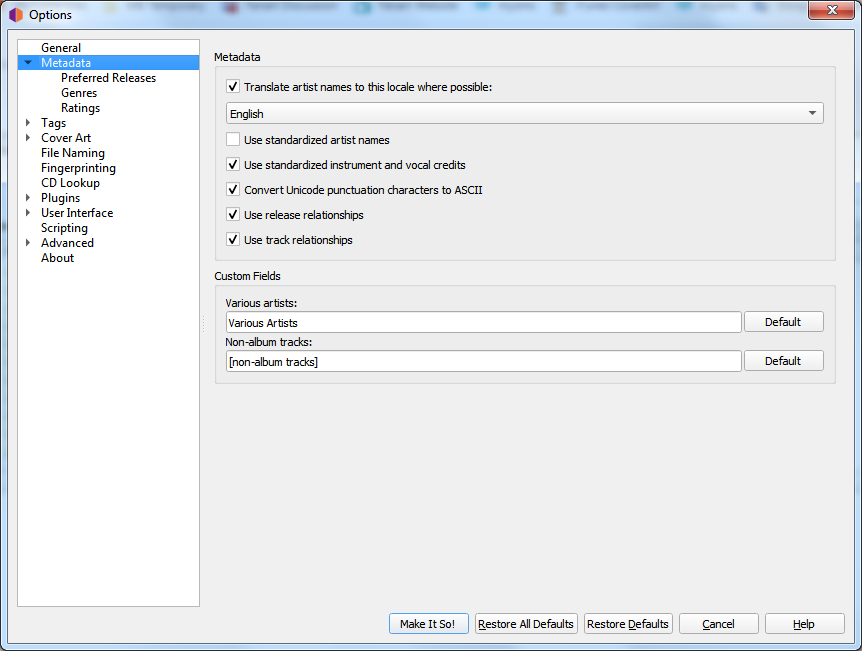
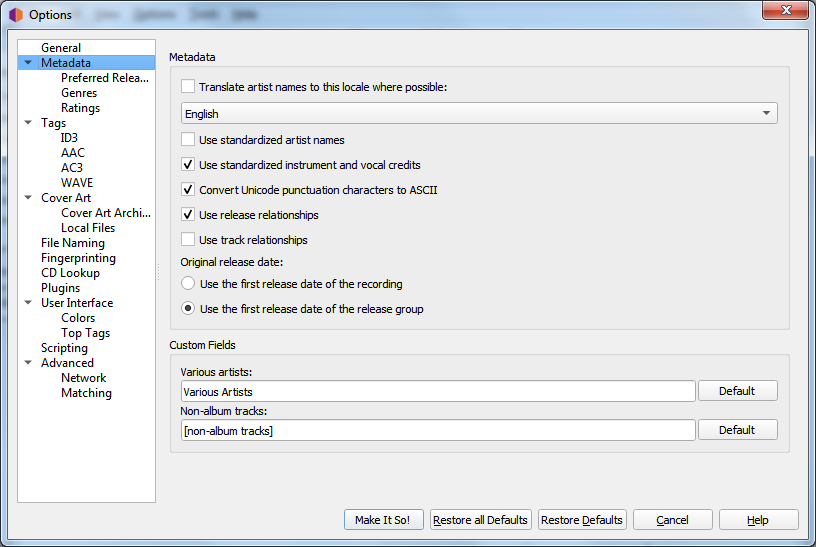
Add new configuration option and update tag descriptions

diff --git a/variables/tags_basic.rst b/variables/tags_basic.rst
@@ -216,15 +216,36 @@ several other more minor settings) by wrapping them between percent '%' symbols 
 
 **originaldate**
 
-    Release Date (YYYY-MM-DD) of the earliest release in the Release Group intended to provide, for example, the release date of the vinyl version of what you have on CD. (*Included as standard from Picard 0.15, and using the Original Release Date plugin if you are still using a non-NGS version earlier than Picard 0.15*)
+   The original release date in the format YYYY-MM-DD.  Prior to Picard version 2.6, this date was based on the earliest
+   release in the Release Group providing, for example, the release date of the vinyl version of what you have on CD. As of
+   Picard version 2.6, the source of the information for this tag can be selected in the :doc:`../config/options_metadata`
+   section of the Options settings.  The selection options are:
 
-    .. note::
+   *  the first release date of the recording (varies by track)
+   *  the first release date of the release group (varies by album)
 
-        If you are storing tags in MP3 files as ID3v2.3 (which is the Windows and iTunes compatible version) then the original date can only be stored as a year.
+   .. warning::
+
+      If the option to use the recording release date is selected and the ``originaldate`` tag is used in the path portion of
+      your file naming script, this may (and likely will) cause your album to be scattered across multiple directories.  To
+      help prevent this from happening, the ``_releaseoriginaldate`` variable has been added, which will provide a consistent
+      value across all tracks on a release, regardless of this option setting.
+
+   .. note::
+
+      If you are storing tags in MP3 files as ID3v2.3 (which is the Windows and iTunes compatible version) then the original date can only be stored as a year.
 
 **originalyear**
 
-    Year of the original Release Date intended for release year of the original recording.
+   Year portion of the ``originaldate`` tag.
+
+   .. warning::
+
+      If the option to use the recording release date is selected and the ``originalyear`` tag is used in the path portion of
+      your file naming script, this may (and likely will) cause your album to be scattered across multiple directories.  To
+      help prevent this from happening, the ``_releaseoriginaldate`` variable has been added, which will provide a consistent
+      value across all tracks on a release, regardless of this option setting. To get just the year portion of this variable,
+      simply use ``$left(%_releaseoriginaldate%,4)``.
 
 **releasecountry**
 

diff --git a/config/options_metadata.rst b/config/options_metadata.rst
@@ -40,6 +40,25 @@
 
    Check to write track-level relationships (e.g.: composer, lyricist, performer, or remixer) to your files.
 
+**Original release date**
+
+   This option allows the user to select the information source used for the ``originaldate`` and ``originalyear`` tags, from either:
+
+   *  the first release date of the recording (varies by track)
+   *  the first release date of the release group (varies by album)
+
+   The default is to use the first release by release group, which is consistent with the values provided in these tags prior to Picard
+   version 2.6, when this option was first implemented.
+
+   .. warning::
+
+      If the option to use the recording release date is selected and the ``originaldate`` or ``originalyear`` tags are used in the path
+      portion of your file naming script, this may (and likely will) cause your album to be scattered across multiple directories.  To
+      help prevent this from happening, the ``_releaseoriginaldate`` variable has been added, which will provide a consistent value across
+      all tracks on a release, regardless of this option setting. To get just the year portion of this variable, simply use
+      ``$left(%_releaseoriginaldate%,4)``.  Similarly the ``_recordingoriginaldate`` variable will always provide the date based on the
+      recording, regardless of this option setting.
+
 **Various artists**
 
    Choose how you want the "Various Artists" artist spelled.
